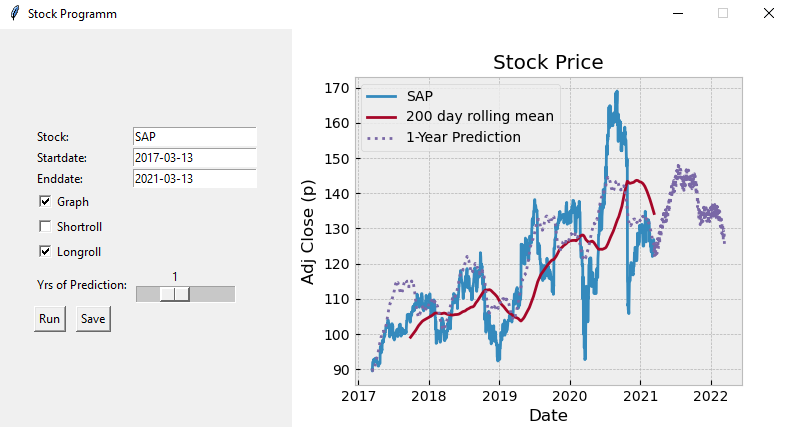
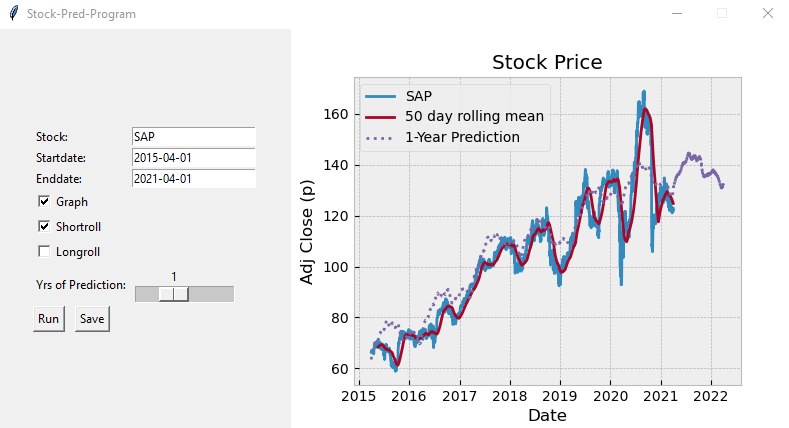
save btn

diff --git a/app.py b/app.py
@@ -23,15 +23,17 @@ style.use("bmh")
 class App:
     def __init__(self, root):
         self.now = str(datetime.now().strftime('%Y-%m-%d'))
-
+        f = open("save.txt", "r")
+        f1 = f.read().split('\n')
+        f.close()
         self.root = root
-        self.root.title("Stock Programm")
+        self.root.title("Stock-Pred-Program")
         # self.root.geometry("600x450")
         self.root.resizable(False, False)
 
-        self.GRAPHVAR = tkinter.IntVar(value=1)
-        self.SHORTVAR = tkinter.IntVar()
-        self.LONGVAR = tkinter.IntVar()
+        self.GRAPHVAR = tkinter.IntVar(value=int(f1[4]))
+        self.SHORTVAR = tkinter.IntVar(value=int(f1[5]))
+        self.LONGVAR = tkinter.IntVar(value=int(f1[6]))
 
         self.UILF = tkinter.LabelFrame(root, bd=0)
         self.UILF.grid(row=0, column=0, padx=35, pady=10)
@@ -40,19 +42,21 @@ class App:
         self.UISTOCK.grid(row=0, column=0, sticky="W")
 
         self.UISTOCKE = tkinter.Entry(self.UILF)
+        self.UISTOCKE.insert(0, f1[0])
         self.UISTOCKE.grid(row=0, column=1, sticky="W")
 
         self.UISDATE = tkinter.Label(self.UILF, text="Startdate: ")
         self.UISDATE.grid(row=1, column=0, sticky="W")
 
         self.UISDATEE = tkinter.Entry(self.UILF)
+        self.UISDATEE.insert(0, f1[1])
         self.UISDATEE.grid(row=1, column=1, sticky="W")
 
         self.UIEDATE = tkinter.Label(self.UILF, text="Enddate: ")
         self.UIEDATE.grid(row=2, column=0, sticky="W")
 
         self.UIEDATEE = tkinter.Entry(self.UILF)
-        self.UIEDATEE.insert(0, self.now)
+        self.UIEDATEE.insert(0, f1[2])
         self.UIEDATEE.grid(row=2, column=1, sticky="W")
 
         self.UIGRAPHC = tkinter.Checkbutton(self.UILF, text="Graph", variable=self.GRAPHVAR)
@@ -68,6 +72,7 @@ class App:
         self.UIPRED.grid(row=6, column=0, sticky="W")
 
         self.UIPREDS = tkinter.Scale(self.UILF, from_=0, to=3, orient='horizontal')
+        self.UIPREDS.set(f1[6])
         self.UIPREDS.grid(row=6, column=1, sticky='W')
 
         self.BTLF = tkinter.LabelFrame(self.UILF, bd=0)
@@ -160,4 +165,6 @@ class App:
 
 
     def save(self):
-        pass
+        f = open('save.txt', 'w+')
+        f.write(self.UISTOCKE.get() + '\n' + self.UISDATEE.get() + '\n' + self.UIEDATEE.get() + '\n' + str(self.GRAPHVAR.get()) + '\n' + str(self.SHORTVAR.get()) + '\n' + str(self.LONGVAR.get()) + '\n' + str(self.UIPREDS.get()))
+        f.close()
